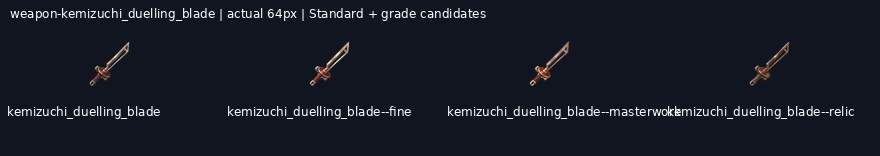
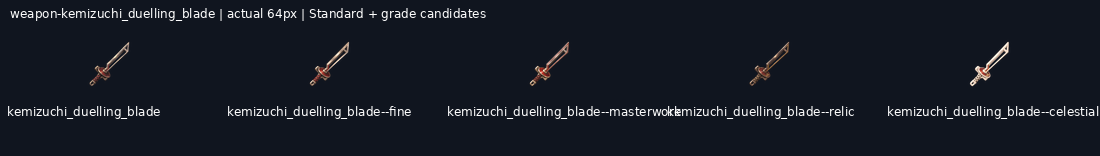
art: draw weapon-kemizuchi_duelling_blade--celestial grade candidate

diff --git a/art/_archive/gear/2026-11-19-kept-blade-grades/HANDOFF.md b/art/_archive/gear/2026-11-19-kept-blade-grades/HANDOFF.md
@@ -1,9 +1,9 @@
 # Kept-blade grade candidates
 
-**3/32 grade candidates delivered** on `art/2026-11-19-kept-blade-grades`. Shared mailbox: https://github.com/leonpentastorm/Project-Heaven-Cry/issues/3 . See claim.json for this lane’s current Standards. Released overlapping blades reuse12 peer candidates, with3 local alternatives archived.
+**4/32 grade candidates delivered** on `art/2026-11-19-kept-blade-grades`. Shared mailbox: https://github.com/leonpentastorm/Project-Heaven-Cry/issues/3 . See claim.json for this lane’s current Standards. Released overlapping blades reuse12 peer candidates, with3 local alternatives archived.
 
 Leon requested continuous candidate production; proof approval is not fabricated. All candidates remain review-candidate, production_approved:false, implementation_ready:false, with outline.review_required:true. Exact outline is measured, never asserted unless the masks match. Per-image registration is uniform scaling/translation only, without warp, silhouette masks, filled pixels or code-drawn substitutes. The generated native remains untouched.
 
 Each image is generated, shown, technically exported, validated, committed and pushed before the next. Sources, versioned masters, exact prompts/reference hashes,256/128/64/32 exports and grade comparison sheets are retained. Standards and earlier deliveries are unchanged. This sparse checkout cannot validate omitted historical files; full-library validation/build is an integration check on a full checkout.
 
-Remaining: weapon-kemizuchi_duelling_blade--celestial, weapon-adamantile_greatsword--fine, weapon-adamantile_greatsword--masterwork, weapon-adamantile_greatsword--relic, weapon-adamantile_greatsword--celestial, weapon-ork_machete--fine, weapon-ork_machete--masterwork, weapon-ork_machete--relic, weapon-ork_machete--celestial, weapon-hatchet--fine, weapon-hatchet--masterwork, weapon-hatchet--relic, weapon-hatchet--celestial, weapon-war_axe--fine, weapon-war_axe--masterwork, weapon-war_axe--relic, weapon-war_axe--celestial, weapon-glaive--fine, weapon-glaive--masterwork, weapon-glaive--relic, weapon-glaive--celestial, weapon-lance--fine, weapon-lance--masterwork, weapon-lance--relic, weapon-lance--celestial, weapon-maul--fine, weapon-maul--masterwork, weapon-maul--relic, weapon-maul--celestial.
+Remaining: weapon-adamantile_greatsword--fine, weapon-adamantile_greatsword--masterwork, weapon-adamantile_greatsword--relic, weapon-adamantile_greatsword--celestial, weapon-ork_machete--fine, weapon-ork_machete--masterwork, weapon-ork_machete--relic, weapon-ork_machete--celestial, weapon-hatchet--fine, weapon-hatchet--masterwork, weapon-hatchet--relic, weapon-hatchet--celestial, weapon-war_axe--fine, weapon-war_axe--masterwork, weapon-war_axe--relic, weapon-war_axe--celestial, weapon-glaive--fine, weapon-glaive--masterwork, weapon-glaive--relic, weapon-glaive--celestial, weapon-lance--fine, weapon-lance--masterwork, weapon-lance--relic, weapon-lance--celestial, weapon-maul--fine, weapon-maul--masterwork, weapon-maul--relic, weapon-maul--celestial.
